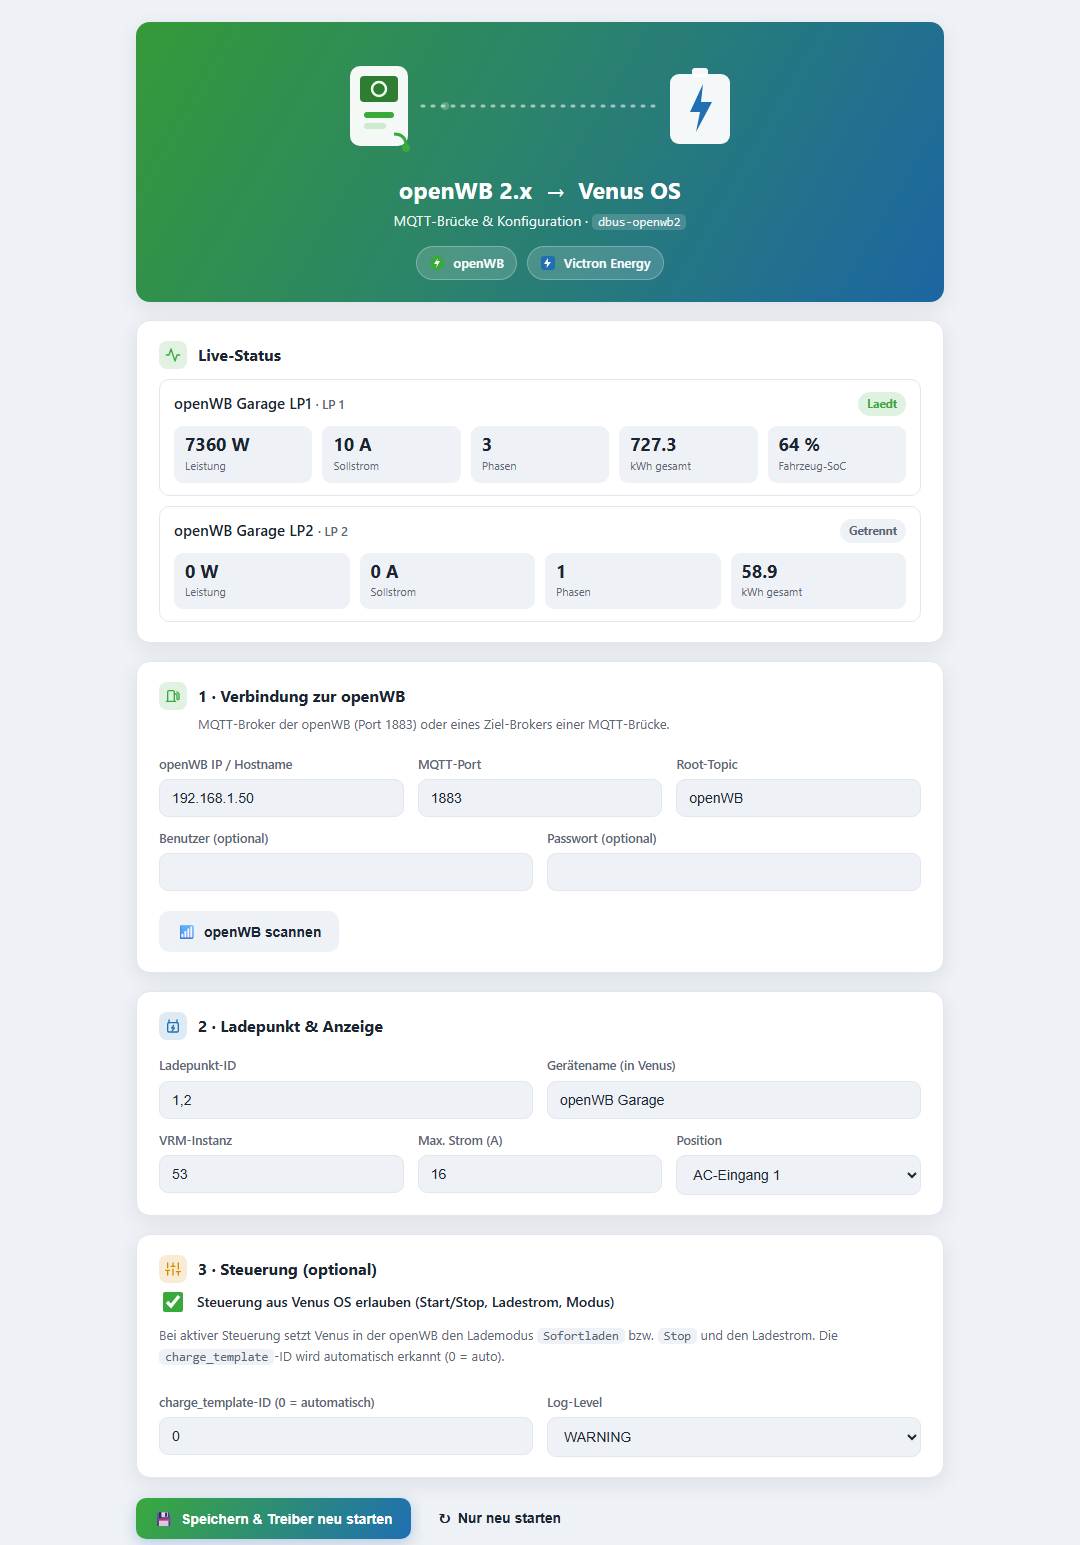
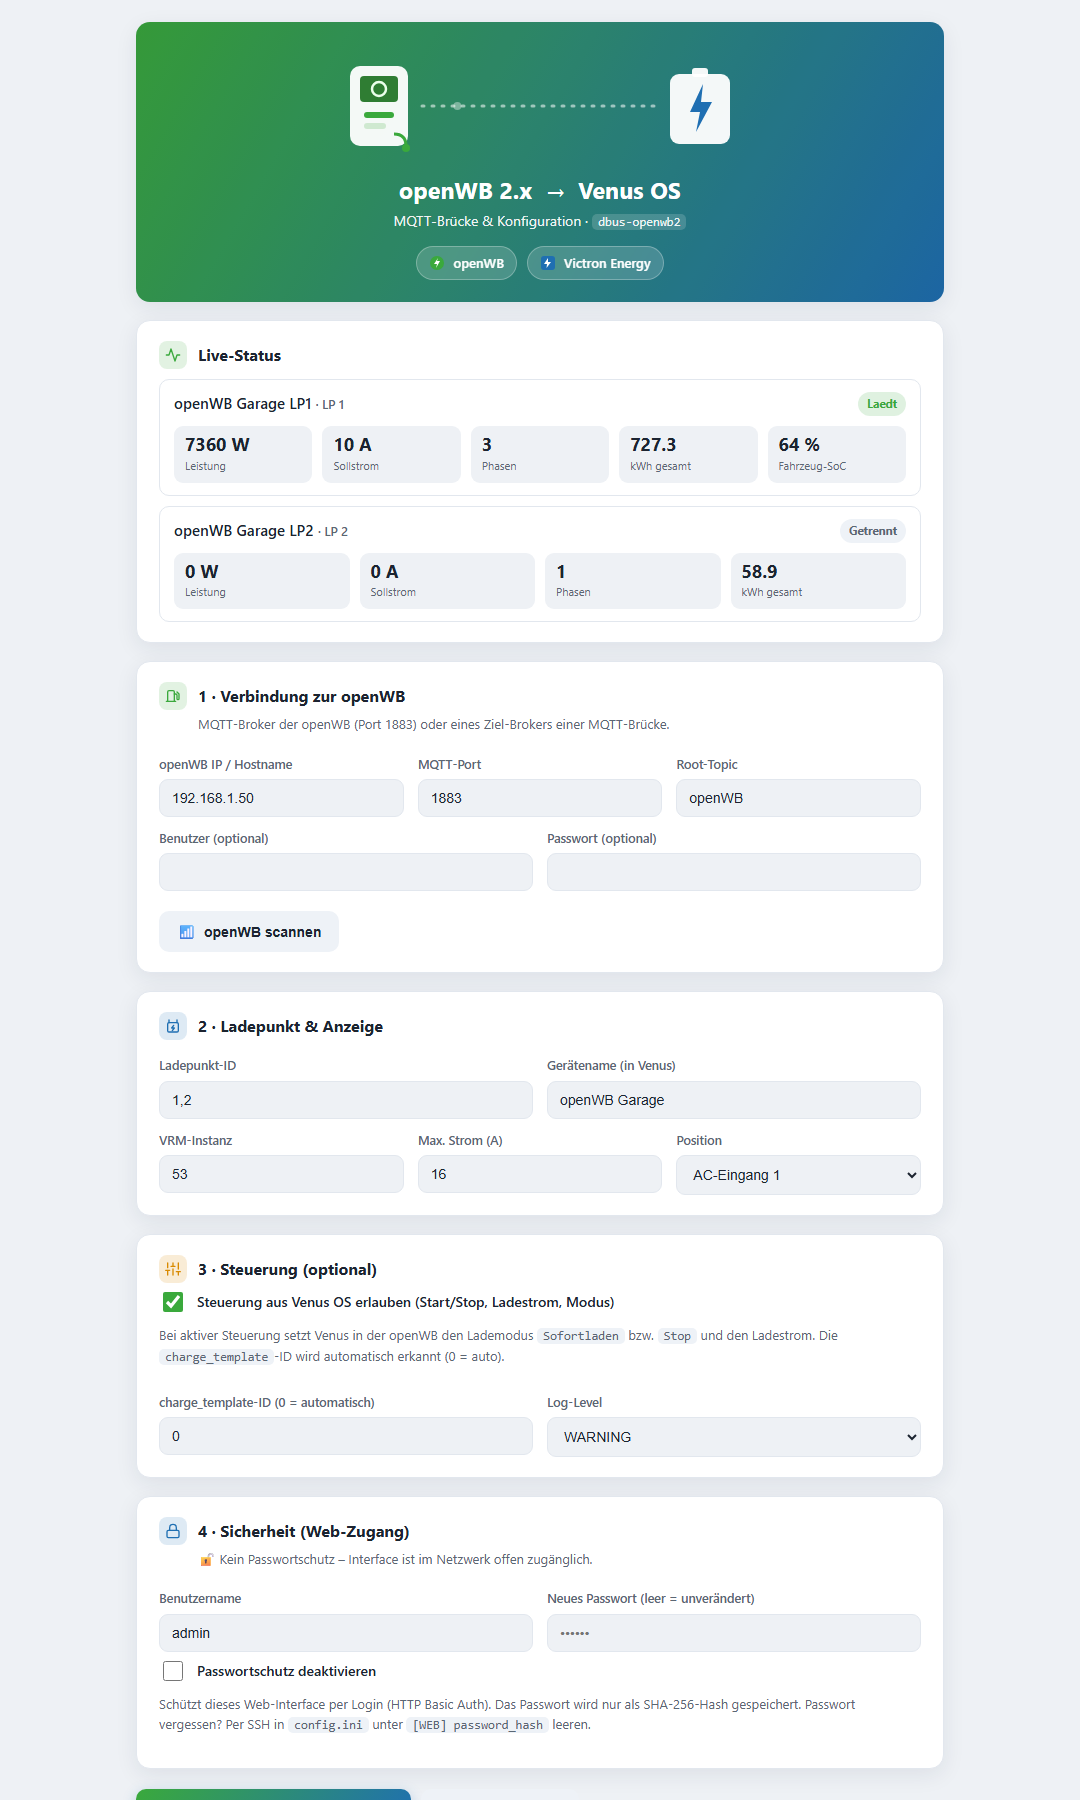
feat: optionaler Passwortschutz + Update-Anleitung
- Web-Interface: optionale HTTP Basic Auth (Abschnitt 'Sicherheit'),
  Passwort nur als SHA-256-Hash gespeichert, nie ueber /api/config
  ausgeliefert, abschaltbar
- config.sample.ini: [WEB] username/password_hash dokumentiert
- README: Update-Anleitung (SetupHelper + manuell), config.ini bleibt erhalten
- Screenshot mit Sicherheits-Karte, Changelog + version v1.3.0

diff --git a/webconfig.py b/webconfig.py
@@ -19,6 +19,9 @@ Alle Grafiken sind eingebettetes SVG -> keine externen Requests (offline-faehig)
 import os
 import json
 import time
+import hmac
+import base64
+import hashlib
 import configparser
 import subprocess
 from http.server import BaseHTTPRequestHandler, ThreadingHTTPServer
@@ -48,7 +51,7 @@ DEFAULTS = {
     "WALLBOX": {"chargepoint_id": "1", "max_current": "16",
                 "position": "1", "nominal_voltage": "230"},
     "CONTROL": {"enabled": "0", "charge_template_id": "0"},
-    "WEB":     {"port": "8088"},
+    "WEB":     {"port": "8088", "username": "admin", "password_hash": ""},
     "MQTT":    {"broker_address": "IP_ADDR_OR_FQDN", "broker_port": "1883",
                 "username": "", "password": "", "tls_enabled": "0",
                 "mqtt_root": "openWB"},
@@ -80,6 +83,27 @@ def write_config(data):
     with open(CONFIG_FILE, "w") as fh:
         fh.write("; erzeugt vom dbus-openwb2 Web-Interface\n")
         cfg.write(fh)
+
+
+# --------------------------------------------------------------------------
+# Passwortschutz (optional, HTTP Basic Auth)
+# --------------------------------------------------------------------------
+def hash_pw(plain):
+    return hashlib.sha256(plain.encode("utf-8")).hexdigest()
+
+
+def auth_settings():
+    web = read_config().get("WEB", {})
+    return web.get("username", "admin"), web.get("password_hash", "")
+
+
+def check_credentials(user, pw):
+    cfg_user, cfg_hash = auth_settings()
+    if not cfg_hash:
+        return True  # Schutz nicht aktiv
+    ok_user = hmac.compare_digest(user or "", cfg_user or "")
+    ok_pw = hmac.compare_digest(hash_pw(pw or ""), cfg_hash)
+    return ok_user and ok_pw
 
 
 # --------------------------------------------------------------------------
@@ -223,11 +247,34 @@ class Handler(BaseHTTPRequestHandler):
         raw = self.rfile.read(length) if length else b"{}"
         return json.loads(raw or b"{}")
 
+    def _authorized(self):
+        """True, wenn kein Schutz aktiv oder Basic-Auth stimmt. Sonst 401."""
+        auth = self.headers.get("Authorization", "")
+        user = pw = ""
+        if auth.startswith("Basic "):
+            try:
+                user, _, pw = base64.b64decode(auth[6:]).decode("utf-8").partition(":")
+            except Exception:  # noqa: BLE001
+                user = pw = ""
+        if check_credentials(user, pw):
+            return True
+        self.send_response(401)
+        self.send_header("WWW-Authenticate", 'Basic realm="dbus-openwb2"')
+        self.send_header("Content-Type", "application/json")
+        self.end_headers()
+        self.wfile.write(b'{"error":"Anmeldung erforderlich"}')
+        return False
+
     def do_GET(self):
+        if not self._authorized():
+            return
         if self.path in ("/", "/index.html"):
             self._send(200, PAGE, "text/html; charset=utf-8")
         elif self.path == "/api/config":
-            self._send(200, json.dumps(read_config()))
+            cfg = read_config()
+            web = cfg.get("WEB", {})
+            web["protected"] = bool(web.pop("password_hash", ""))  # Hash nie ausliefern
+            self._send(200, json.dumps(cfg))
         elif self.path == "/api/status":
             self._send(200, json.dumps({"driver": driver_status()}))
         elif self.path == "/api/live":
@@ -238,6 +285,8 @@ class Handler(BaseHTTPRequestHandler):
             self._send(404, json.dumps({"error": "not found"}))
 
     def do_POST(self):
+        if not self._authorized():
+            return
         try:
             if self.path == "/api/scan":
                 b = self._json_body()
@@ -247,8 +296,24 @@ class Handler(BaseHTTPRequestHandler):
                 self._send(200, json.dumps(res))
             elif self.path == "/api/save":
                 data = self._json_body()
+                # Passwort-Logik: Hash nur bei neuem Passwort setzen/aendern
+                cur_web = read_config().get("WEB", {})
+                web_in = data.get("WEB", {})
+                if web_in.get("disable"):
+                    new_hash = ""
+                elif web_in.get("new_password"):
+                    new_hash = hash_pw(web_in["new_password"])
+                else:
+                    new_hash = cur_web.get("password_hash", "")
+                data["WEB"] = {
+                    "port": cur_web.get("port", "8088"),
+                    "username": (web_in.get("username") or "admin").strip(),
+                    "password_hash": new_hash,
+                }
                 write_config(data)
                 ok, msg = restart_driver()
+                if new_hash and not cur_web.get("password_hash"):
+                    msg += " Passwortschutz aktiv – bitte Seite neu laden und anmelden."
                 self._send(200, json.dumps({"ok": ok, "message": msg}))
             elif self.path == "/api/restart":
                 ok, msg = restart_driver()
@@ -480,6 +545,26 @@ PAGE = r"""<!doctype html>
     </div>
   </div>
 
+  <div class="card">
+    <h2><span class="ico b">
+      <svg width="16" height="16" viewBox="0 0 24 24" fill="none" stroke="currentColor" stroke-width="2" stroke-linecap="round" stroke-linejoin="round"><rect x="3" y="11" width="18" height="11" rx="2"/><path d="M7 11V7a5 5 0 0 1 10 0v4"/></svg>
+    </span>4 &middot; Sicherheit (Web-Zugang)</h2>
+    <p class="hint" id="secstate">&nbsp;</p>
+    <div class="row">
+      <div><label>Benutzername</label><input id="web_username" value="admin"></div>
+      <div><label>Neues Passwort (leer = unver&auml;ndert)</label>
+        <input id="web_new_password" type="password" placeholder="&bull;&bull;&bull;&bull;&bull;&bull;"></div>
+    </div>
+    <div class="switch">
+      <input type="checkbox" id="web_disable">
+      <label for="web_disable">Passwortschutz deaktivieren</label>
+    </div>
+    <p class="note">Sch&uuml;tzt dieses Web-Interface per Login (HTTP Basic Auth).
+      Das Passwort wird nur als SHA-256-Hash gespeichert.
+      Passwort vergessen? Per SSH in <code>config.ini</code> unter
+      <code>[WEB] password_hash</code> leeren.</p>
+  </div>
+
   <div class="bar">
     <button class="primary" onclick="save()">&#128190;&nbsp; Speichern &amp; Treiber neu starten</button>
     <button class="ghost" onclick="restart()">&#8635;&nbsp; Nur neu starten</button>
@@ -522,6 +607,12 @@ async function load(){
   $("logging").value=g("DEFAULT","logging","WARNING");
   $("control_enabled").checked=g("CONTROL","enabled","0")==="1";
   $("charge_template_id").value=g("CONTROL","charge_template_id","0");
+  $("web_username").value=g("WEB","username","admin");
+  const prot=g("WEB","protected",false);
+  $("secstate").textContent = prot
+    ? "🔒 Passwortschutz ist aktiv."
+    : "🔓 Kein Passwortschutz – Interface ist im Netzwerk offen zugänglich.";
+  $("secstate").style.color = prot ? "var(--ok)" : "var(--muted)";
   if($("broker_address").value==="IP_ADDR_OR_FQDN") $("broker_address").value="";
   status();
 }
@@ -534,7 +625,8 @@ function collect(){
       nominal_voltage:"230"},
     CONTROL:{enabled:$("control_enabled").checked?"1":"0",
       charge_template_id:$("charge_template_id").value},
-    WEB:{port:"8088"},
+    WEB:{port:"8088", username:$("web_username").value,
+      new_password:$("web_new_password").value, disable:$("web_disable").checked},
     MQTT:{broker_address:$("broker_address").value, broker_port:$("broker_port").value,
       username:$("username").value, password:$("password").value,
       tls_enabled:"0", mqtt_root:$("mqtt_root").value},

diff --git a/README.md b/README.md
@@ -22,6 +22,7 @@ Inspiriert von [gvzdus/dbus-mqtt-openwb](https://github.com/gvzdus/dbus-mqtt-ope
   - **Log-Viewer** – Treiber-Log im Browser, ohne SSH
   - openWB live **scannen** → erkennt Ladepunkte und Live-Werte automatisch
   - Broker, Ladepunkt-ID(s), Name, VRM-Instanz, Max-Strom, Position einstellen
+  - optionaler **Passwortschutz** (HTTP Basic Auth, Passwort nur als Hash gespeichert)
   - **Speichern** schreibt `config.ini` und startet den Treiber neu
 - **Steuerung (optional, abschaltbar)**: Start/Stop, Ladestrom und Lademodus
   aus Venus OS zurück in die openWB (Modus *Sofortladen* / *Stop* / *PV*).
@@ -65,7 +66,7 @@ verwalten (Download, Update, automatische Neuinstallation nach Firmware-Updates)
 |------|------|
 | Package name | `dbus-openwb2` |
 | GitHub user   | `teesmokr` |
-| GitHub branch/tag | `main` (oder `v1.2.0`) |
+| GitHub branch/tag | `main` (oder `v1.3.0`) |
 
 Dann **Proceed / Install**. Das mitgelieferte [`setup`](setup)-Script installiert
 `paho-mqtt`, legt die `config.ini` an und verlinkt beide Dienste.
@@ -89,6 +90,36 @@ Firmware-Updates).
 
 Danach im Browser: **`http://<venus-ip>:8088`** öffnen, openWB scannen,
 Ladepunkt übernehmen, speichern. Fertig – die Wallbox erscheint in der Geräteliste.
+
+## Aktualisieren (Update)
+
+Deine `config.ini` bleibt bei allen Wegen erhalten (sie wird nie überschrieben,
+nur angelegt, falls sie fehlt).
+
+**Mit SetupHelper:** GX-GUI → **Settings → Package manager → Active packages →
+dbus-openwb2 → Proceed** (bzw. „Check for updates" / „Update"). SetupHelper zieht
+die neueste Version und reinstalliert automatisch.
+
+**Manuell / Schnellinstallation:** einfach erneut ausführen – das Skript
+überschreibt die Programmdateien und lässt die `config.ini` in Ruhe:
+
+```bash
+cd /tmp
+wget -O dbus-openwb2.zip https://github.com/teesmokr/dbus-openwb2/archive/refs/heads/main.zip
+unzip -o dbus-openwb2.zip
+# Programmdateien aktualisieren, config.ini behalten:
+cp -R dbus-openwb2-main/* /data/etc/dbus-openwb2/
+bash /data/etc/dbus-openwb2/install.sh
+```
+
+`install.sh` erkennt eine vorhandene Installation, aktualisiert die Dienste und
+startet sie neu. Danach im Browser neu laden (Strg+F5).
+
+Aktuell installierte Version prüfen:
+
+```bash
+cat /data/etc/dbus-openwb2/version
+```
 
 ## openWB vorbereiten (MQTT)
 

diff --git a/CHANGELOG.md b/CHANGELOG.md
@@ -1,5 +1,16 @@
 # Changelog
 
+## [1.3.0] – 2026-08-28
+
+### Neu
+- **Passwortschutz fürs Web-Interface** (optional, HTTP Basic Auth):
+  - Benutzername + Passwort im UI konfigurierbar (Abschnitt „Sicherheit")
+  - Passwort wird nur als **SHA-256-Hash** gespeichert, nie im Klartext und
+    nie über `/api/config` ausgeliefert
+  - abschaltbar; bei vergessenem Passwort `[WEB] password_hash` per SSH leeren
+- **README: Update-Anleitung** – wie man eine installierte Version auf dem
+  Cerbo aktualisiert (SetupHelper und manuell), `config.ini` bleibt erhalten.
+
 ## [1.2.0] – 2026-08-28
 
 ### Neu
